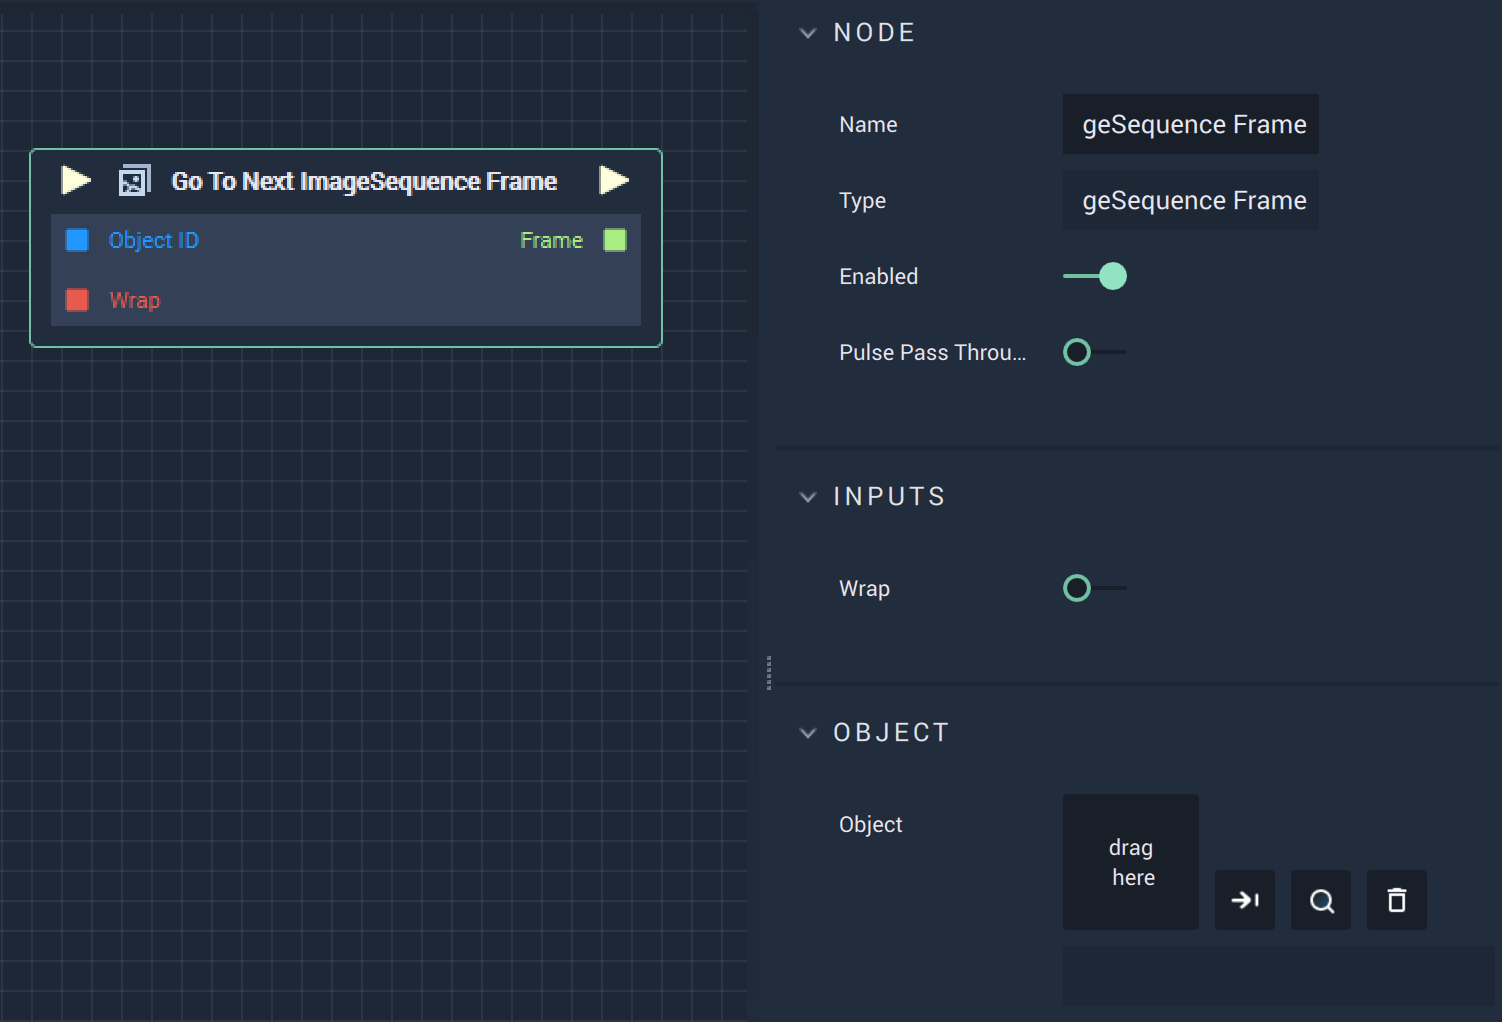
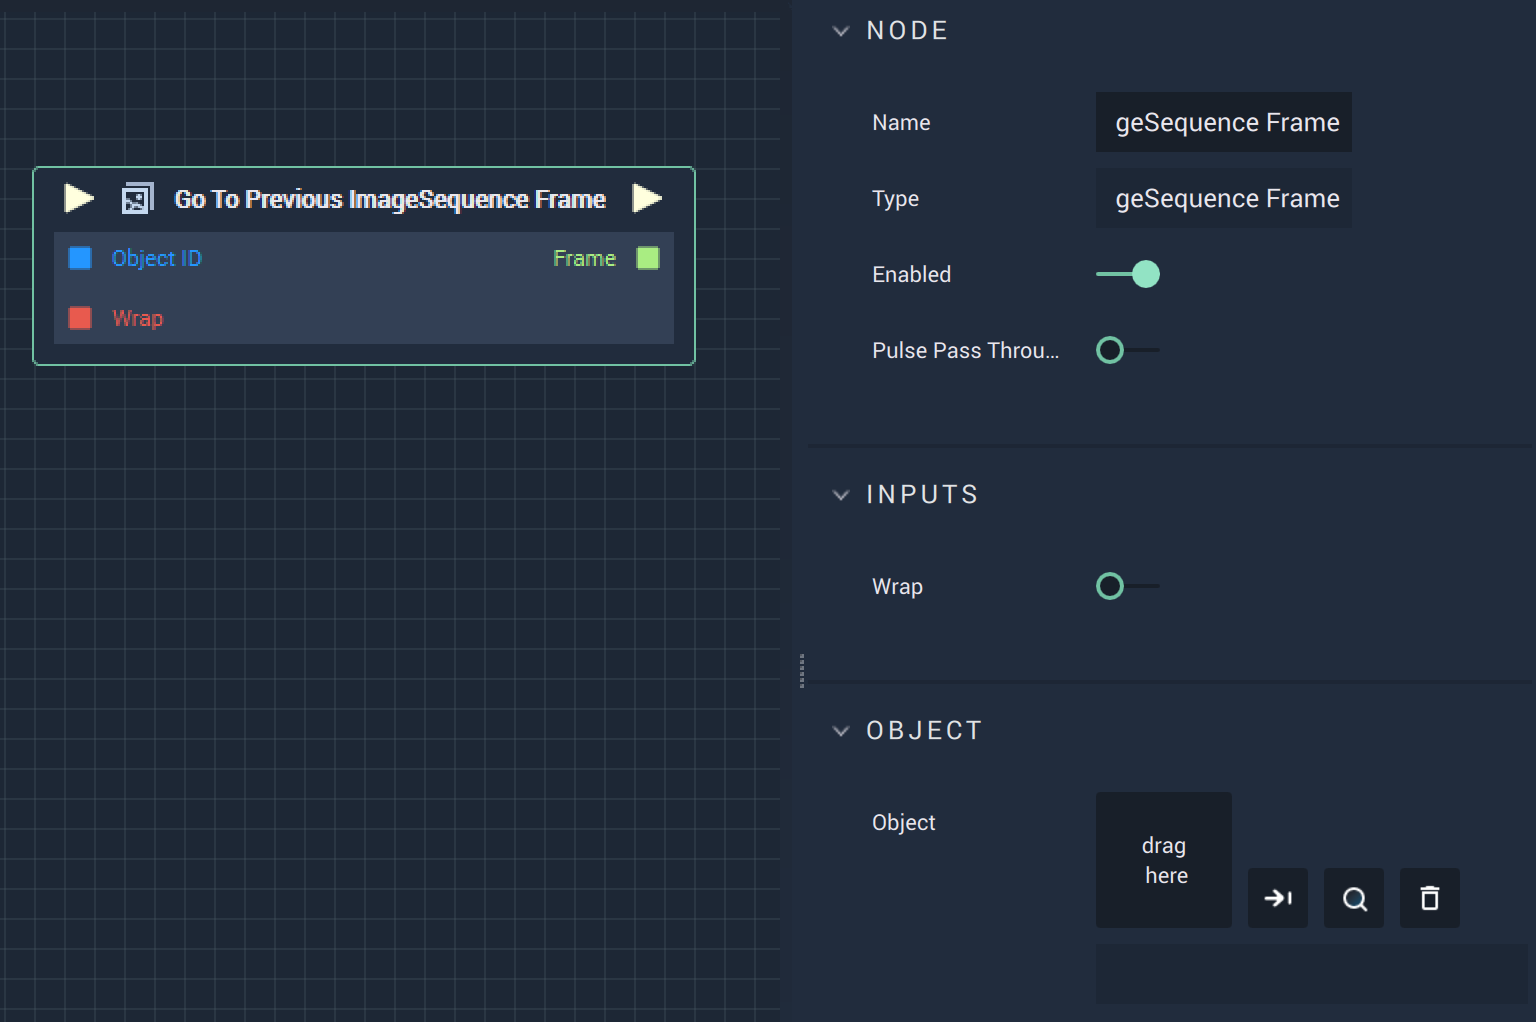
imgsqnc nodes + png update

diff --git a/toolbox/incari/imagesequence/gotopreviousimagesequenceframe.md b/toolbox/incari/imagesequence/gotopreviousimagesequenceframe.md
@@ -1,0 +1,30 @@
+# Overview
+
+![The Go To Previous ImageSequence Frame Node.](../../../.gitbook/assets/gotopreviousimagesequenceframe.png)
+
+The **Go To Previous ImageSequence Frame Node** moves backward to the previous frame on the **ImageSequence**.
+
+# Attributes
+
+|Attribute|Type|Description|
+|---|---|---|
+|`Object`|**ObjectID**|The target **Object**.|
+
+# Inputs
+
+|Input|Type|Description|
+|---|---|---|
+|*Pulse Input* (►)|**Pulse**|A standard **Input Pulse**, to trigger the execution of the **Node**.|
+|`Object ID`|**Object**|The ID of the target **Object**.|
+|`Wrap`|**Bool**|Set as true or false depending on....|
+
+# Outputs
+
+|Output|Type|Description|
+|---|---|---|
+|*Pulse Output* (►)|**Pulse**|A standard **Output Pulse**, to move onto the next **Node** along the **Logic Branch**, once this **Node** has finished its execution.|
+|`Frame`|**Int**|The index value of the previous frame.|
+
+
+# See Also
+

diff --git a/toolbox/incari/imagesequence/showimagesequenceframe.md b/toolbox/incari/imagesequence/showimagesequenceframe.md
@@ -1,0 +1,26 @@
+# Overview
+
+![The Showimagesequenceframe Node.](../../../.gitbook/assets/showimagesequenceframe.png)
+
+**Show ImageSequence Frame** displays the frame at the selected index.
+
+# Attributes
+
+|Attribute|Type|Description|
+|---|---|---|
+|`Object`|**ObjectID**|The target **Object**.|
+
+# Inputs
+
+|Input|Type|Description|
+|---|---|---|
+|*Pulse Input* (►)|**Pulse**|A standard **Input Pulse**, to trigger the execution of the **Node**.|
+|`Frame`|**Int**|The index value of the desired frame.|
+
+# Outputs
+
+|Output|Type|Description|
+|---|---|---|
+|*Pulse Output* (►)|**Pulse**|A standard **Output Pulse**, to move onto the next **Node** along the **Logic Branch**, once this **Node** has finished its execution.|
+
+# See Also
